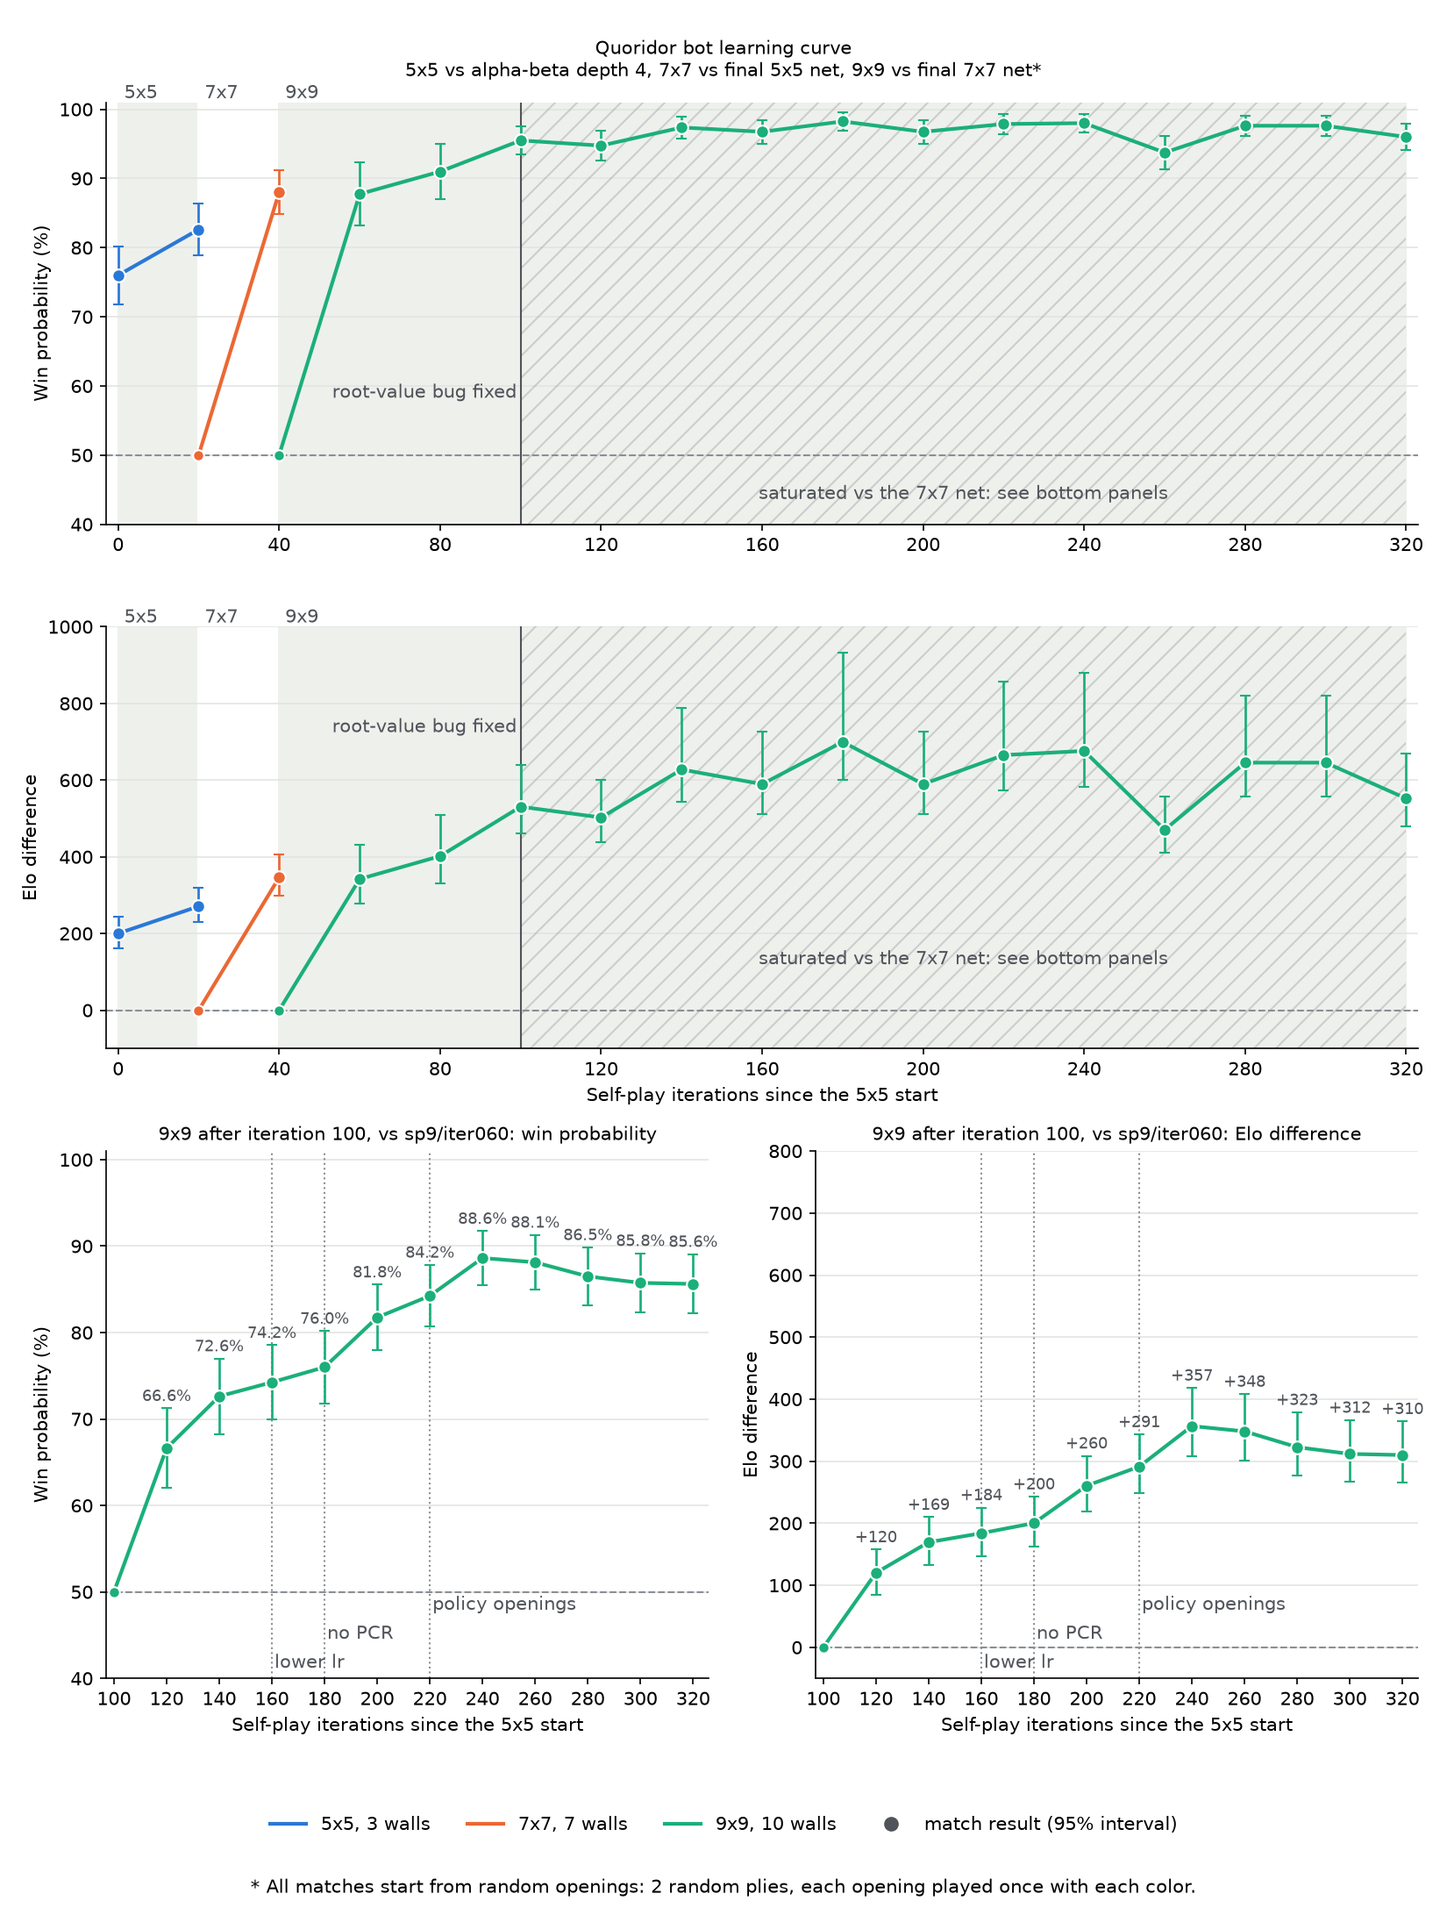
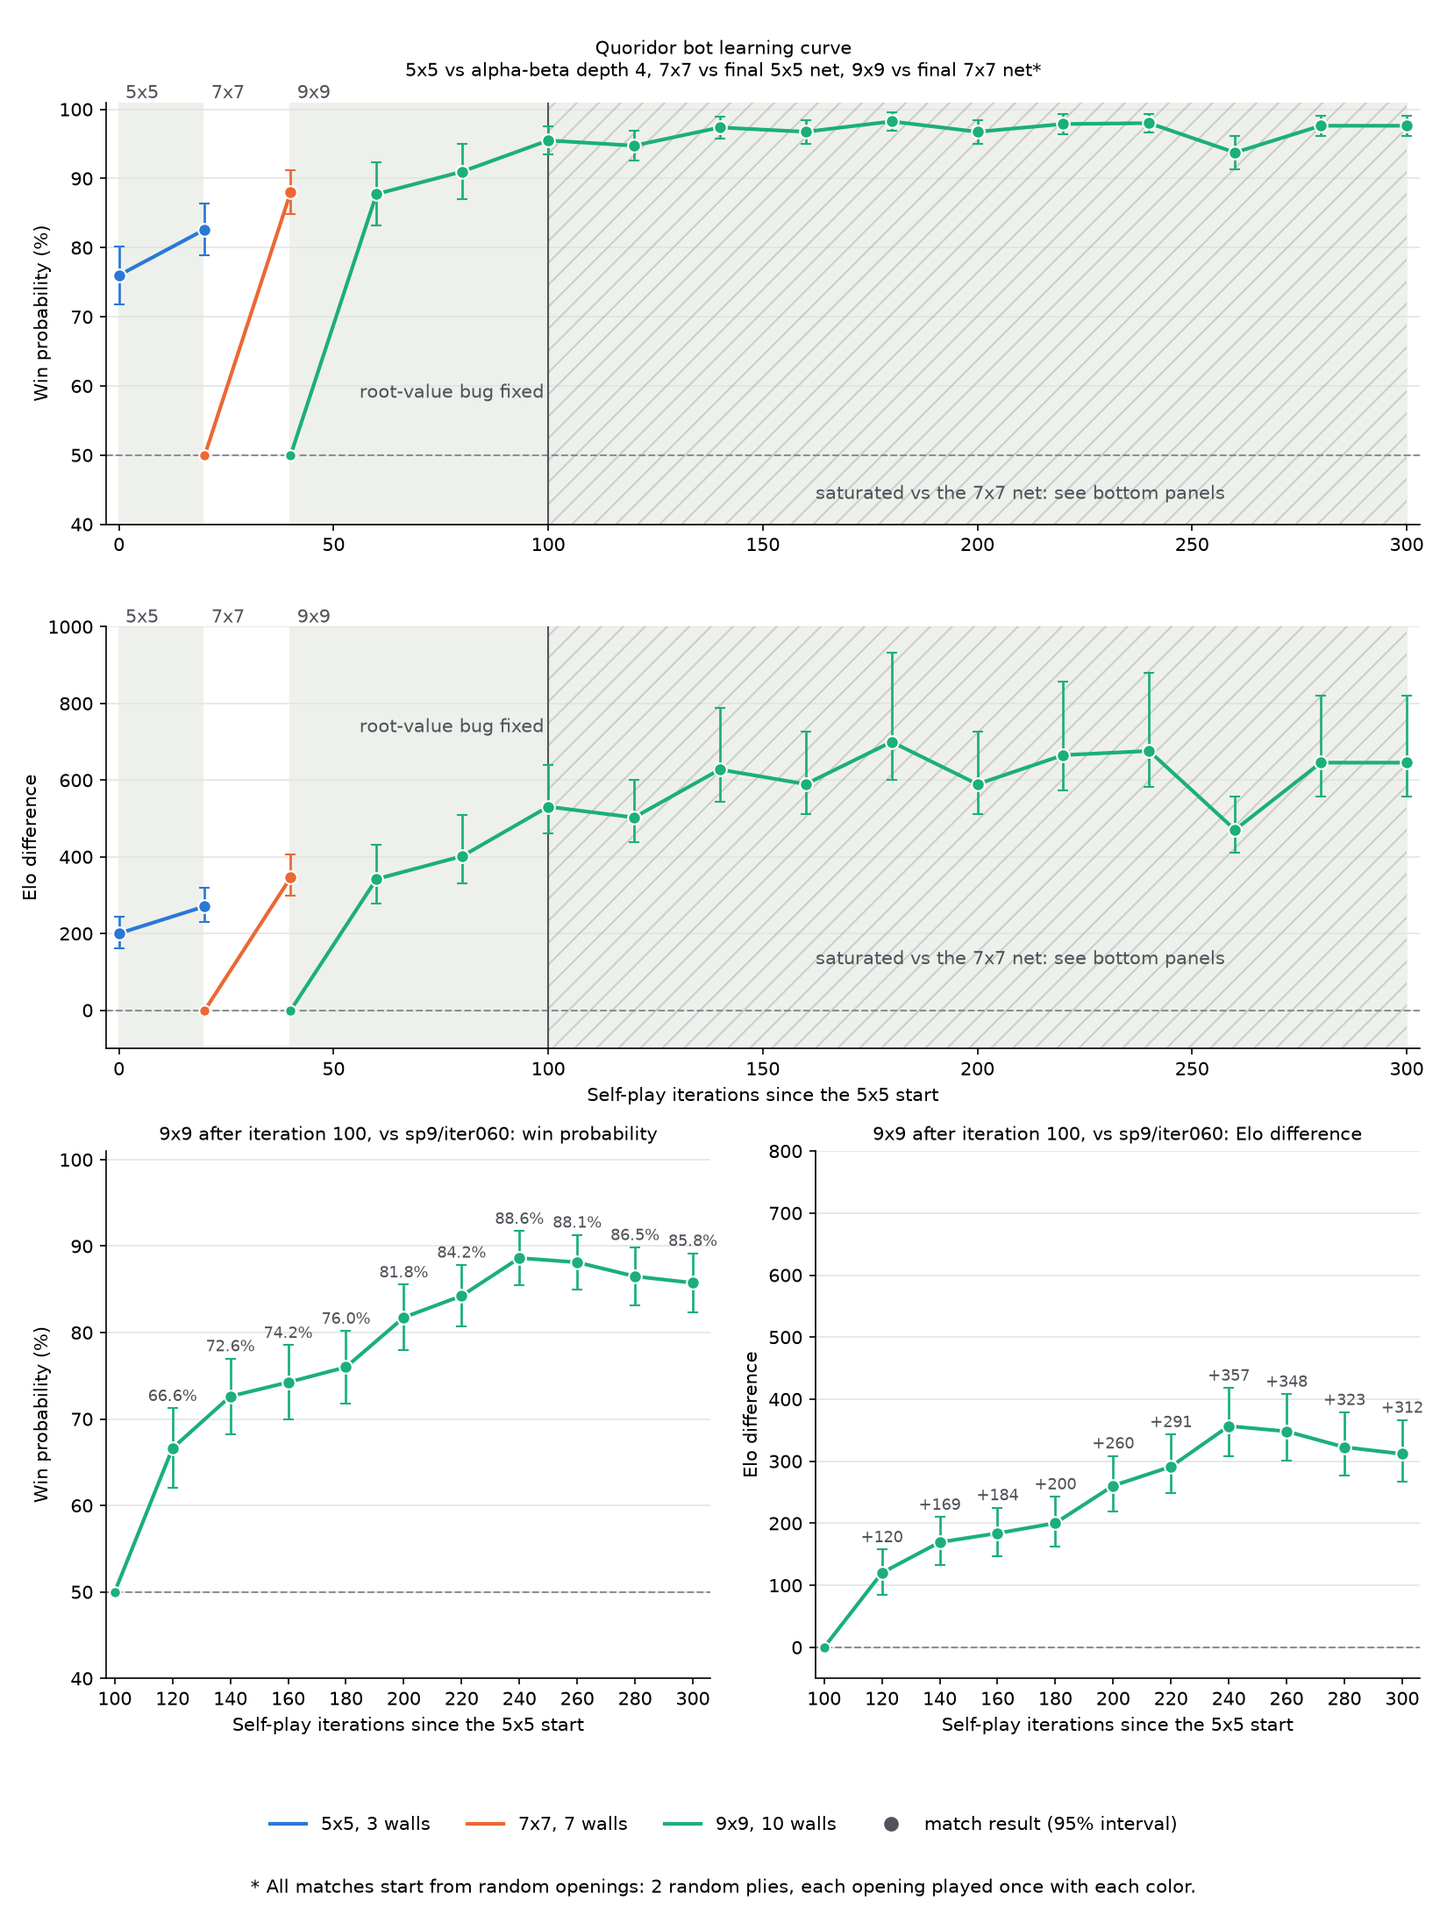
add README.md and simplify command-line options

diff --git a/quoridor/selfplay.py b/quoridor/selfplay.py
@@ -11,7 +11,6 @@ import torch.nn.functional as F
 
 from quoridor import quoridor_engine as qe
 from quoridor.agent import (
-    MAX_CONSIDERED,
     NetEvaluator,
     mirror_features,
     mirror_perm,
@@ -25,7 +24,6 @@ from quoridor.arena import (
     opening,
     play_match,
     policy_opener,
-    uniform_move,
 )
 from quoridor.model import QuoridorNet, masked_logits, save
 
@@ -79,7 +77,7 @@ def play_games(
     mcts: qe.MCTS,
     args: argparse.Namespace,
     rng: random.Random,
-    opener: Opener = uniform_move,
+    opener: Opener,
 ) -> tuple[list[Batch], int, dict[str, int]]:
     width, height, walls = evaluate.board
     started = 0
@@ -231,15 +229,15 @@ def parse_args() -> argparse.Namespace:
         required=True,
         help="run name, saved to runs/RUN",
     )
-    p.add_argument("--iters", type=int, default=20)
+    p.add_argument("--iters", type=int, default=40)
     p.add_argument("--games", type=int, default=1000, help="games per iteration")
     p.add_argument("--parallel", type=int, default=256)
     p.add_argument("--sims", type=int, default=28, help="sims per move")
-    p.add_argument("--max-considered", type=int, default=MAX_CONSIDERED)
+    p.add_argument("--max-considered", type=int, default=8)
     p.add_argument(
         "--open-plies",
         type=int,
-        default=2,
+        default=4,
         help="up to this many random plies at the start",
     )
     p.add_argument(
@@ -257,10 +255,11 @@ def parse_args() -> argparse.Namespace:
     p.add_argument(
         "--open-temp",
         type=positive,
-        help="temperature for opening plies (default: random)",
+        default=3.0,
+        help="temperature for opening plies sampled from the net's policy",
     )
     p.add_argument(
-        "--buffer", type=int, default=100_000, help="replay buffer size in positions"
+        "--buffer", type=int, default=250_000, help="replay buffer size in positions"
     )
     p.add_argument(
         "--reuse",
@@ -269,22 +268,22 @@ def parse_args() -> argparse.Namespace:
         help="samples per new position",
     )
     p.add_argument("--batch", type=int, default=256)
-    p.add_argument("--lr", type=float, default=5e-4)
+    p.add_argument("--lr", type=float, default=1.5e-4)
     p.add_argument("--weight-decay", type=float, default=1e-4)
     p.add_argument("--value-weight", type=float, default=1.0)
     p.add_argument(
         "--search-value-weight",
         type=float,
-        default=0.0,
+        default=0.5,
         help="weight of search value in the value target",
     )
     p.add_argument(
         "--moves-left-weight",
         type=float,
-        default=0.0,
+        default=1.0,
         help="loss weight of the moves-left head",
     )
-    p.add_argument("--eval-every", type=int, default=2)
+    p.add_argument("--eval-every", type=int, default=0, help="0: never")
     p.add_argument("--eval-games", type=int, default=200)
     p.add_argument("--eval-sims", type=int, default=64)
     p.add_argument(
@@ -334,7 +333,9 @@ def main() -> None:
     )
     mcts = qe.MCTS(sims=args.sims, max_considered=args.max_considered, seed=args.seed)
     buffer = Buffer(args.buffer)
-    reference = NetEvaluator(args.eval_net) if args.eval_net else None
+    reference = (
+        NetEvaluator(args.eval_net) if args.eval_net and args.eval_every else None
+    )
 
     def log(line: str) -> None:
         print(line, flush=True)
@@ -344,11 +345,7 @@ def main() -> None:
     log(f"start {time.strftime('%Y-%m-%d %H:%M:%S')}  {vars(args)}")
     for it in range(1, args.iters + 1):
         t0 = time.time()
-        opener = (
-            policy_opener(evaluate, args.open_temp)
-            if args.open_temp is not None
-            else uniform_move
-        )
+        opener = policy_opener(evaluate, args.open_temp)
         batches, plies, stats = play_games(evaluate, mcts, args, rng, opener)
         t_play = time.time() - t0
         buffer.add(batches)

diff --git a/quoridor/train.py b/quoridor/train.py
@@ -16,7 +16,7 @@ def load_data(paths: list[str]) -> dict[str, np.ndarray]:
     boards = {tuple(int(x) for x in p["board"]) for p in parts}
     if len(boards) != 1:
         raise ValueError(f"mixed boards: {boards}")
-    keys = ["features", "mask", "action", "value", "outcome", "exact"]
+    keys = ["features", "mask", "action", "value", "exact"]
     data = {k: np.concatenate([p[k] for p in parts]) for k in keys}
     flat = np.ascontiguousarray(data["features"].reshape(len(data["features"]), -1))
     _, first = np.unique(
@@ -30,13 +30,10 @@ def load_data(paths: list[str]) -> dict[str, np.ndarray]:
     return data
 
 
-def value_target(
-    data: dict[str, np.ndarray], kind: str, outcome_weight: float
-) -> np.ndarray:
-    v = data["value"]
+def value_target(data: dict[str, np.ndarray], kind: str) -> np.ndarray:
     if kind == "exact":
-        v = np.where(np.isnan(data["exact"]), v, data["exact"])
-    return (1.0 - outcome_weight) * v + outcome_weight * data["outcome"]
+        return np.where(np.isnan(data["exact"]), data["value"], data["exact"])
+    return data["value"]
 
 
 def run_epoch(
@@ -102,12 +99,6 @@ def parse_args() -> argparse.Namespace:
     p.add_argument("--weight-decay", type=float, default=1e-4)
     p.add_argument("--value-weight", type=float, default=1.0)
     p.add_argument("--value-target", choices=["search", "exact"], default="search")
-    p.add_argument(
-        "--outcome-weight",
-        type=float,
-        default=0.0,
-        help="mix game outcome into the value target",
-    )
     p.add_argument("--val-frac", type=float, default=0.1)
     p.add_argument("--seed", type=int, default=0)
     p.add_argument("--device", default="cuda" if torch.cuda.is_available() else "cpu")
@@ -131,9 +122,7 @@ def main() -> None:
         "mask": torch.from_numpy(data["mask"]),
         "action": torch.from_numpy(data["action"].astype(np.int64)),
         "target": torch.from_numpy(
-            value_target(data, args.value_target, args.outcome_weight).astype(
-                np.float32
-            )
+            value_target(data, args.value_target).astype(np.float32)
         ),
         "exact": torch.from_numpy(data["exact"]),
     }

diff --git a/quoridor/agent.py b/quoridor/agent.py
@@ -32,33 +32,14 @@ def mirror_features(x: torch.Tensor) -> torch.Tensor:
 
 
 class NetEvaluator:
-    def __init__(
-        self,
-        path: str,
-        device: str | None = None,
-        mirror: bool = False,
-    ) -> None:
+    def __init__(self, path: str, device: str | None = None) -> None:
         self.device = device or ("cuda" if torch.cuda.is_available() else "cpu")
         self.net, ckpt = load(path, self.device)
         self.board: list[int] = ckpt["board"]
-        self.mirror = mirror
-        self.perms: dict[tuple[int, int], torch.Tensor] = {}
-
-    def perm(self, width: int, height: int) -> torch.Tensor:
-        if (width, height) not in self.perms:
-            self.perms[width, height] = torch.from_numpy(mirror_perm(width, height)).to(
-                self.device
-            )
-        return self.perms[width, height]
 
     @torch.inference_mode()
     def __call__(self, x: np.ndarray) -> tuple[np.ndarray, np.ndarray]:
-        t = torch.from_numpy(x).to(self.device)
-        logits, value, _ = self.net(t)
-        if self.mirror and x.shape[3] % 2 == 1:
-            logits_m, value_m, _ = self.net(mirror_features(t))
-            logits = (logits + logits_m[:, self.perm(x.shape[3], x.shape[2])]) / 2
-            value = (value + value_m) / 2
+        logits, value, _ = self.net(torch.from_numpy(x).to(self.device))
         return logits.float().cpu().numpy(), value.float().cpu().numpy()
 
 

diff --git a/quoridor/probe.py b/quoridor/probe.py
@@ -89,9 +89,8 @@ def score(
     data: dict[str, np.ndarray],
     games: list[qe.Game],
     sims: list[int],
-    mirror: bool = False,
 ) -> str:
-    evaluate = NetEvaluator(path, mirror=mirror)
+    evaluate = NetEvaluator(path)
     x = qe.batch_features(games)
     _, values = evaluate(x)
     result = data["result"]
@@ -126,11 +125,6 @@ def parse_args() -> argparse.Namespace:
     p.add_argument("--sims", type=int, nargs="+", default=[1, 64])
     p.add_argument("--min-plies", type=int, default=4)
     p.add_argument("--max-plies", type=int, default=16)
-    p.add_argument(
-        "--mirror",
-        action="store_true",
-        help="average each evaluation with its left-right mirror",
-    )
     p.add_argument("--seed", type=int, default=123)
     return p.parse_args()
 
@@ -149,7 +143,7 @@ def main() -> None:
         f"mean {good.mean():.1f} of {legal.mean():.1f} legal (random move keeps win {np.mean(good / legal):.1%})"
     )
     for path in args.nets:
-        print(score(path, data, games, args.sims, args.mirror), flush=True)
+        print(score(path, data, games, args.sims), flush=True)
 
 
 if __name__ == "__main__":

diff --git a/quoridor/arena.py b/quoridor/arena.py
@@ -160,9 +160,6 @@ def parse_args() -> argparse.Namespace:
     )
     p.add_argument("net")
     p.add_argument("--opponent", help="play this net instead of alpha-beta")
-    p.add_argument(
-        "--mirror", action="store_true", help="mirror averaging for the first net only"
-    )
     p.add_argument("--games", type=int, default=100)
     p.add_argument("--sims", type=int, default=64)
     p.add_argument("--max-considered", type=int, default=MAX_CONSIDERED)
@@ -198,7 +195,7 @@ def parse_args() -> argparse.Namespace:
 
 def main() -> None:
     args = parse_args()
-    evaluate = NetEvaluator(args.net, mirror=args.mirror)
+    evaluate = NetEvaluator(args.net)
     if args.board:
         evaluate.board = args.board
     opener = (

diff --git a/README.md b/README.md
@@ -1,0 +1,144 @@
+# Quoridor-Zero
+
+An AlphaZero-style bot that learns Quoridor through self-play.
+
+<p align="center">
+  <img src="plots/quoridor.png" alt="A game in the browser UI" width="420">
+</p>
+
+[Quoridor](https://en.wikipedia.org/wiki/Quoridor) is a two-player board game where each player races a pawn to the far side of a 9x9 board, and on each turn either moves the pawn or places a wall to slow the other player down. Walls may never cut a player off completely. I use the standard two-player rules: 10 walls each, a diagonal jump only when a straight jump is blocked, and no passing. A game is considered a draw after 324 moves (which is 4 times the area of the board) in total.
+
+This project has three parts:
+
+- A game engine in C++, with a classic alpha-beta search (a bot that looks a fixed number of moves ahead and scores positions with a hand-written formula).
+- A neural network that looks at a position and suggests moves and a win chance.
+- A tree search (Monte Carlo tree search, with the Gumbel AlphaZero method at the top of the tree) that uses the net to look ahead. Gumbel AlphaZero makes good decisions with only a few dozen simulations, which keeps training cheap.
+
+The net learned by playing against itself. It plays games with search, trains on the results, and repeats.
+
+## Strength
+
+I tested the 9x9 bot against two public Quoridor bots I found on GitHub. Results are this bot's wins-losses:
+
+| Opponent | This bot | Random openings | Standard start |
+|---|---|---|---|
+| [SigmaQuoridor](https://github.com/bartolomeo3000/SigmaQuoridor) (AlphaZero-style, a larger net), 800 simulations | 800 simulations | 22-18 | lost both games |
+| [gorisanson/quoridor-ai](https://github.com/gorisanson/quoridor-ai), strongest level (60,000 playouts per move) | 64 simulations | 37-3 | won both games |
+
+The 40 games start from 20 random two-move openings, each played once with each colour, so the bots don't repeat the same game. SigmaQuoridor is about as strong as mine, and from the standard start it won both games. Against gorisanson's bot, mine needed well under a tenth of a second per move against about 9 seconds.
+
+## Setup
+
+Needs Python 3.10+ and a C++17 compiler. A GPU is optional, but without one use fewer simulations in the UI.
+
+```sh
+pip install -r requirements.txt
+bash build.sh
+./build/test_engine && python -m tests.test_bindings && python -m tests.test_mcts
+```
+
+## Play
+
+```sh
+python -m quoridor.ui                  # browser UI at http://localhost:8000
+python -m quoridor.play --you red      # terminal, against alpha-beta
+```
+
+The UI starts with the 9x9 bot at 512 simulations and its opening book. In the browser you can play against the alpha-beta bot or any trained net, watch two bots play, step back and forth through a game, and see the net's win chance. "Inspect position" shows what the net thinks of the position on screen:
+
+<p align="center">
+  <img src="plots/explain.png" alt="Explaining a position" width="700">
+</p>
+
+Top left: how much the mover's win chance changes if each wall were removed. Top right: the mover's win chance with its pawn on each square. Bottom left: which squares the net's evaluation is most sensitive to. Bottom right: where the search spent its simulations.
+
+## How it learned
+
+I started by training the net on small boards. Small boards are much faster to train on, and on very small boards the alpha-beta engine can solve positions exactly, which gave me a way to check whether the net was right.
+
+1. 5x5. The first net learned from games played by the alpha-beta bot, then improved through self-play.
+2. 7x7. The net uses global pooling (it summarises the whole board into a few numbers), so the same weights work on any board size. I continued training the 5x5 net on 7x7.
+3. 9x9. The same net again, now trained on the full board for 280 iterations. Along the way I fixed a bug in how the search reported its value and made some modifications.
+
+I also tried many tricks from KataGo on 5x5 first. Most of them didn't help here, so I removed them.
+
+<p align="center">
+  <img src="plots/learning_curve.png" alt="Learning curve" width="700">
+</p>
+
+Above are the first 300 training iterations. Each point is a 400-game match against a fixed opponent. Top: 5x5 against the alpha-beta bot, 7x7 against the final 5x5 net, 9x9 against the final 7x7 net. Bottom: the later 9x9 nets against an earlier 9x9 net, because the 9x9 nets beat the 7x7 one almost every game. Elo is a rating scale where a 200-point gap means the stronger side wins about 76% of games. The curve flattens at the end, partly because the reference becomes too weak to separate the newest nets. Since I made some modifications along the way, a fresh training run might produce different curves from mine.
+
+### The shipped nets
+
+I trained a lot of bots and only kept a few. The names follow the training runs:
+
+- `sp` is a self-play run. `sp1` was the first (5x5), `sp7` is 7x7, `sp9` is 9x9.
+- Letters mark continuations: `sp9b` continued `sp9`, `sp9c` continued `sp9b`, and so on up to `sp9h`.
+- `iterNNN` is the checkpoint after that many training iterations. One iteration is 1,000 self-play games followed by a round of training.
+
+| File | Board |
+|---|---|
+| `runs/sp1/iter020.pt` | 5x5, 3 walls each |
+| `runs/sp7/iter020.pt` | 7x7, 7 walls each |
+| `runs/sp9h/iter040.pt` | 9x9, 10 walls each (the strongest, used by default) |
+
+All three are the same size: a residual network with 6 blocks and 64 channels. The 9x9 bot also uses an opening book (`books/book_9x9w10.json`): the first few moves searched deeply in advance.
+
+## Train your own
+
+Continue from the 9x9 bot (about 2 minutes per iteration on a 6 GB GPU):
+
+```sh
+python -m quoridor.selfplay --init runs/sp9h/iter040.pt --run my_run
+```
+
+The defaults are the settings that trained the 9x9 bot (40 iterations). Or start from a random net with `--init scratch --board 5 5 3 --lr 5e-4` (any board up to 9x9). Compare two nets:
+
+```sh
+python -m quoridor.arena runs/my_run/iter020.pt --opponent runs/sp9h/iter040.pt \
+    --games 400 --sims 64 --open-plies 4 --open-temp 3
+```
+
+Build an opening book:
+
+```sh
+python -m quoridor.book runs/sp9h/iter040.pt --out books/my_book.json --plies 8 --replies 8
+```
+
+## Commands
+
+| Command | What it does |
+|---|---|
+| `python -m quoridor.ui` | Browser UI: play or watch bots, step through games, inspect positions |
+| `python -m quoridor.play` | Play in the terminal against the alpha-beta bot |
+| `python -m quoridor.selfplay` | Train a net by self-play |
+| `python -m quoridor.arena` | Match a net against the alpha-beta bot or another net |
+| `python -m quoridor.book` | Build an opening book |
+| `python -m quoridor.explain` | Save the position explanation figure shown above |
+| `python -m quoridor.probe` | Check 5x5 nets against exact solver results |
+| `python -m quoridor.gen_data` | Generate training data from alpha-beta games |
+| `python -m quoridor.train` | Train a net on that data (how the first 5x5 net started) |
+
+Every command takes `--help` for its options.
+
+## Layout
+
+| Path | Contents |
+|---|---|
+| `cpp/` | Engine, alpha-beta search, tree search, Python bindings, C++ tests |
+| `quoridor/` | Net, self-play training, matches, opening book, browser and terminal UI |
+| `tests/` | Python tests |
+| `runs/` | The shipped nets; new runs are saved here |
+| `books/` | Opening books |
+| `plots/` | Figures |
+
+## References
+
+- Silver et al., [Mastering Chess and Shogi by Self-Play with a General Reinforcement Learning Algorithm](https://arxiv.org/abs/1712.01815) (AlphaZero), 2017.
+- Danihelka et al., [Policy Improvement by Planning with Gumbel](https://openreview.net/forum?id=bERaNdoegnO) (Gumbel AlphaZero), 2022.
+- Wu, [Accelerating Self-Play Learning in Go](https://arxiv.org/abs/1902.10565) (KataGo), 2019.
+- Grant Slatton, [Solving Quoridor](https://grantslatton.com/solving-quoridor): exact results on small boards, which I used to check my engine.
+
+## License
+
+[MIT](LICENSE)
